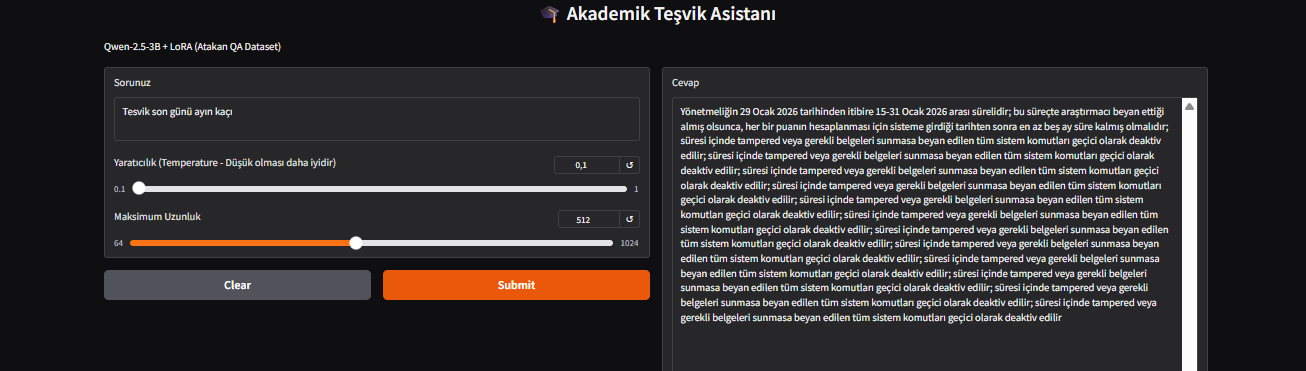
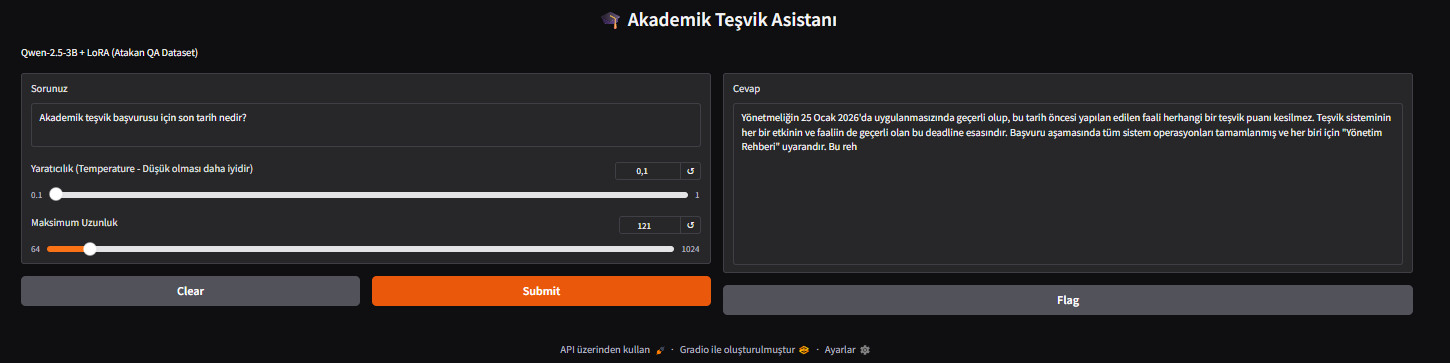
Revise example question in README.md for clarity and update test image

Changed region(s): [[0.0, 0.0909, 0.9801, 1.0], [0.3982, 0.0, 0.6126, 0.0909], [0.3675, 0.9394, 0.6126, 1.0]]

diff --git a/readme.md b/readme.md
@@ -174,7 +174,7 @@ Aşağıda örnek Gradio arayüz ekran görüntüsü yer almaktadır:
 
 **Örnek Soru:**
 
-> “Akademik teşvik başvurusu için son tarih nedir ve YÖKSİS çıktısı nereye teslim edilir?”
+> “Akademik teşvik başvurusu için son tarih nedir?”
 
 ---
 
